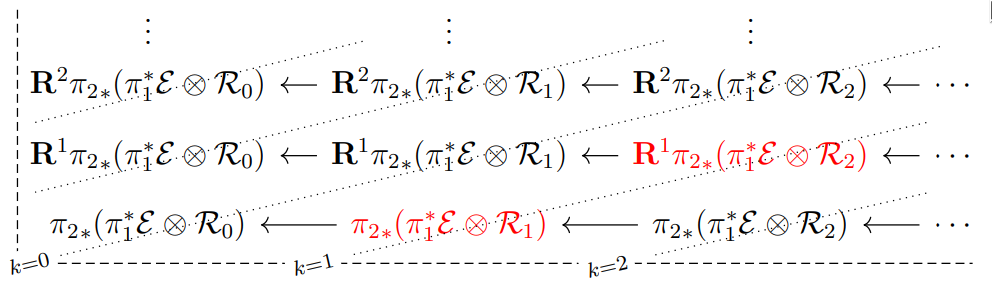
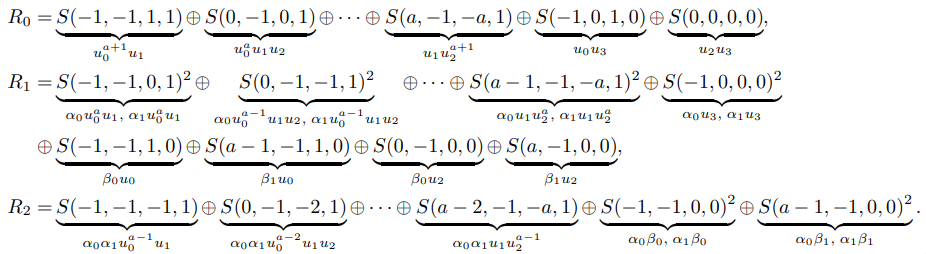
updated research page

diff --git a/research.md b/research.md
@@ -23,14 +23,29 @@ Assuming $p$-adic Hodge Theory has the same goal, can you coherently introduce h
 {% endcomment %}
 
 My current projects all involve commutative algebra over Cox rings of projective varieties. \\
-See my oral exam [presentation](../oral) for some topics and questions that lead me to this point.
+See my [prelim](../oral) and [defense](../defense) presentations for some topics and questions that lead me to this point.
 
-## [Publications](https://mathscinet.ams.org/mathscinet/author?authorId=1422471) and [preprints](https://arxiv.org/search/?query=Mahrud&searchtype=author)
+## [Publications] and [preprints]
 
-{% comment %}
+[Publications]: https://mathscinet.ams.org/mathscinet/author?authorId=1422471
+[preprints]: https://arxiv.org/search/?query=Mahrud&searchtype=author
+
 - **Splitting of vector bundles on toric varieties** \\
-In preparation.
-{% endcomment %}
+[arXiv:2412.19793](https://arxiv.org/abs/2412.19793) [math.AG] \\
+27 December 2024
+
+> ![](../static/2412.19793.png){:width="80%; display:block; margin: auto;"}
+*The vanishing requirements which imply a Horrocks-type splitting criterion.*
+{: style="text-align: center"}
+
+- **Computing Direct Sum Decompositions** \\
+With [Devlin Mallory]. \\
+Submitted. [arXiv:2412.19799](https://arxiv.org/abs/2412.19799) [math.AC] \\
+27 December 2024
+
+> ![](../static/2412.19799.png){:width="80%; display:block; margin: auto;"}
+*Decomposing a module is equivalent to block diagonalizing its presentation.*
+{: style="text-align: center"}
 
 - **A short resolution of the diagonal for smooth proj. toric varieties of Picard rank 2** \\
 With [Michael K. Brown].
@@ -41,7 +56,7 @@ With [Michael K. Brown].
 {% endcomment %}
 
 > ![](../static/2208.00562.png){:width="80%; display:block; margin: auto;"}
-*The vanishing requirements which imply a Horrocks-type splitting criterion.*
+*The terms of a resolution of the diagonal for Hirzebruch surface of type a.*
 {: style="text-align: center"}
 
 - **Bounds on Multigraded Regularity** \\
@@ -86,8 +101,11 @@ With Leigh S. Martin, K. Birgitta Whaley. \\
 *Interactions of qubits in a remote entanglement generation protocol.*
 {: style="text-align: center"}
 
+Subscribe to my [MathSciNet](https://mathscinet.ams.org/mathscinet/author?authorId=1422471) and [ORCiD](https://orcid.org/0000-0003-3402-3844)!
+
 [Ayah Almousa]: https://sites.google.com/view/ayah-almousa
 [Michael K. Brown]: http://webhome.auburn.edu/~mkb0096/
 [Juliette Bruce]: https://juliettebruce.github.io/
 [Lauren Cranton Heller]: https://math.berkeley.edu/~lch/
 [Michael C. Loper]: https://www.uwrf.edu/FacultyStaff/5803758.cfm
+[Devlin Mallory]: https://devlin-mallory.github.io
